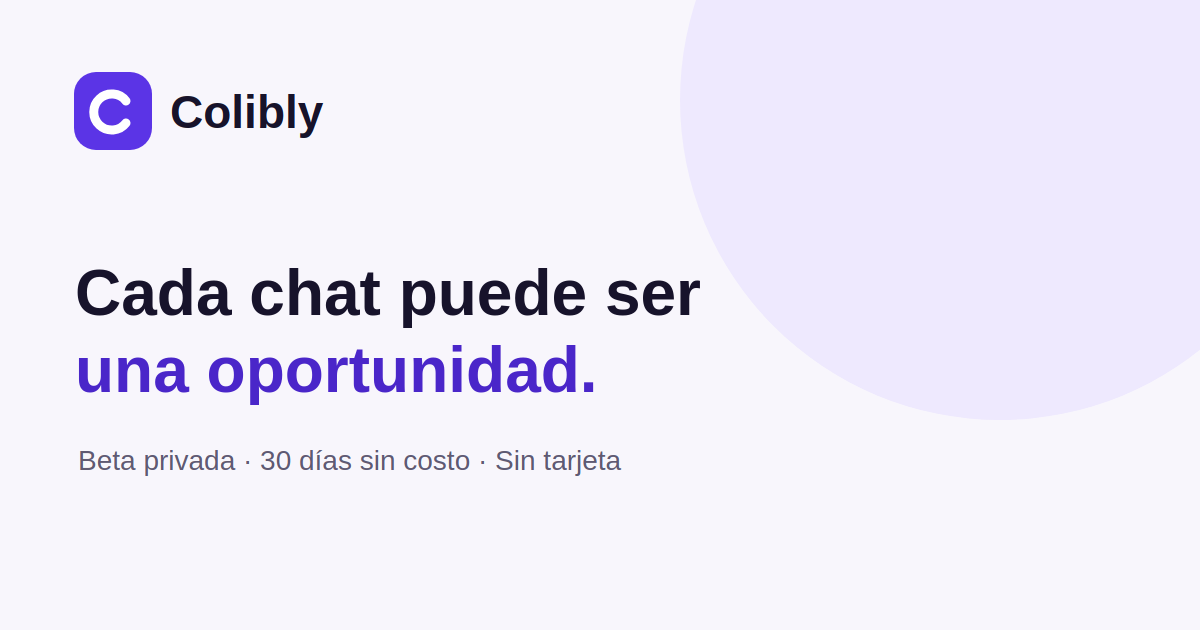
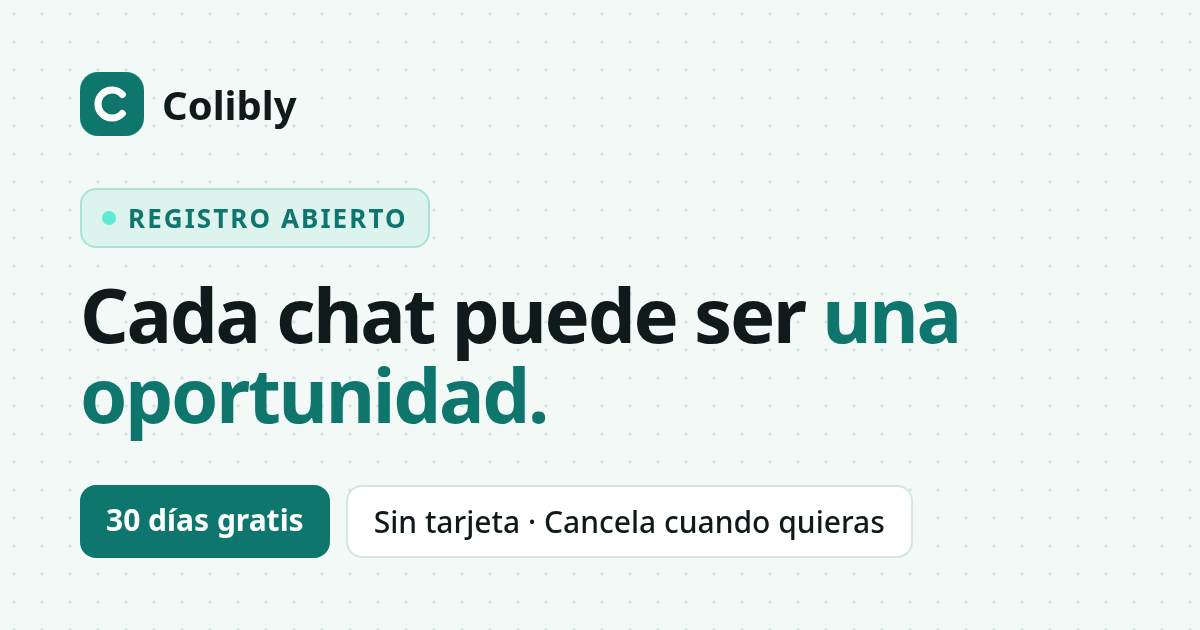
feat(cpanel): paleta Menta y grafito en site.css, iconos y share.png (registro abierto · 30 días gratis)

diff --git a/cpanel-site/assets/site.css b/cpanel-site/assets/site.css
@@ -1,14 +1,14 @@
 @import url('https://fonts.googleapis.com/css2?family=Bricolage+Grotesque:wght@400;500;600;700&family=Hanken+Grotesk:wght@400;500;600;700&display=swap');
-:root{--background:#f8f6fc;--surface:#fff;--surface-light:#f1eef8;--foreground:#17132b;--muted:#5f5a73;--muted-strong:#4a455e;--border:#e7e2f3;--accent:#5b34e6;--accent-hover:#4a26c9;--accent-ink:#4a26c9;--accent-subtle:#eee9fe;--accent-muted:#d9cffc;--success:#17663f;--success-bg:#e3f4ea;--shadow:0 20px 48px rgba(23,19,43,.12),0 4px 10px rgba(23,19,43,.06)}
+:root{--background:#f2f9f7;--surface:#fff;--surface-light:#e4f1ee;--foreground:#0f1a1a;--muted:#465757;--muted-strong:#2f3f3f;--border:#d3e6e2;--accent:#0f766e;--accent-hover:#0b5f58;--accent-ink:#0b5f58;--accent-subtle:#ddf3ee;--accent-muted:#a9e3d6;--success:#17663f;--success-bg:#e3f4ea;--shadow:0 20px 48px rgba(15,26,26,.12),0 4px 10px rgba(15,26,26,.06)}
 *,*::before,*::after{box-sizing:border-box}html{scroll-behavior:smooth}body{margin:0;background:var(--background);color:var(--foreground);font:16px/1.5 'Hanken Grotesk',system-ui,sans-serif}h1,h2,h3,p{margin-top:0}h1,h2,h3,.brand,.price,.step-number{font-family:'Bricolage Grotesque',system-ui,sans-serif}a{color:inherit;text-decoration:none}button,input,textarea{font:inherit}button{cursor:pointer}:focus-visible{outline:2px solid var(--accent);outline-offset:3px}section[id]{scroll-margin-top:90px}.container{width:min(100% - 32px,1152px);margin-inline:auto}.skip{position:absolute;left:-9999px}.skip:focus{left:12px;top:12px;z-index:99;padding:12px;background:#fff;border-radius:12px}
-.site-header{position:sticky;top:0;z-index:40;background:rgba(248,246,252,.92);border-bottom:1px solid var(--border);backdrop-filter:blur(14px)}.header-inner{display:flex;align-items:center;gap:18px;min-height:70px}.brand{display:inline-flex;align-items:center;gap:9px;font-weight:700;font-size:18px;letter-spacing:-.03em;white-space:nowrap}.brand img{border-radius:9px}.header-nav{display:flex;gap:27px;margin-left:auto;color:var(--muted);font-size:14px}.header-nav a:hover,.login:hover,.footer a:hover{color:var(--accent-ink)}.login{font-size:14px;font-weight:600;color:var(--muted)}.button{display:inline-flex;align-items:center;justify-content:center;gap:10px;min-height:48px;padding:11px 22px;border-radius:12px;font-size:14px;font-weight:700;border:1px solid transparent;transition:background .2s,transform .2s,box-shadow .2s}.button:hover{transform:translateY(-2px)}.button-primary{background:var(--accent);color:#fff;box-shadow:0 8px 20px rgba(91,52,230,.18)}.button-primary:hover{background:var(--accent-hover)}.button-outline{border-color:var(--border);background:var(--surface)}.button-outline:hover{background:var(--surface-light)}.header-cta{min-height:44px;padding-inline:17px}
-.hero{overflow:hidden;border-bottom:1px solid var(--border);background:radial-gradient(circle at 80% 15%,var(--accent-muted),transparent 38%),linear-gradient(180deg,var(--background),var(--surface))}.hero-grid{display:grid;grid-template-columns:1.05fr .95fr;gap:48px;align-items:center;padding-block:94px}.hero-copy{max-width:560px}.eyebrow{font-size:12px;line-height:1.4;font-weight:700;letter-spacing:.15em;text-transform:uppercase;color:var(--accent-ink);margin-bottom:14px}.pill{display:inline-flex;align-items:center;gap:8px;padding:8px 12px;background:var(--accent-subtle);border:1px solid var(--accent-muted);border-radius:12px}.dot{width:8px;height:8px;border-radius:50%;background:var(--accent)}h1{font-size:clamp(43px,6vw,82px);line-height:1.03;letter-spacing:-.055em;margin:22px 0}h1 em{font-style:normal;color:var(--accent-ink)}.lead{font-size:18px;line-height:1.75;color:var(--muted);max-width:540px}.actions{display:flex;flex-wrap:wrap;gap:12px;margin-top:30px}.fine{font-size:14px;color:var(--muted-strong);margin:14px 0 0}
-.hero-demo{position:relative;max-width:512px;width:100%;margin:auto}.hero-demo::before{content:"";position:absolute;inset:-14px;background:var(--accent-muted);opacity:.45;filter:blur(28px);border-radius:28px}.demo-window{position:relative;background:#fff;border:1px solid var(--border);border-radius:22px;box-shadow:var(--shadow);overflow:hidden}.demo-head{display:flex;align-items:center;gap:12px;padding:15px 20px;border-bottom:1px solid var(--border);background:var(--background)}.demo-head strong,.demo-head small{display:block}.demo-head strong{font-size:14px}.demo-head small,.demo-body small{font-size:12px;color:var(--muted-strong)}.demo-icon{width:36px;height:36px;display:grid;place-items:center;border-radius:12px;background:var(--accent-subtle);color:var(--accent-ink);font-size:20px}.online{margin-left:auto;background:var(--success-bg);color:var(--success);font-size:12px;font-weight:700;padding:5px 10px;border-radius:8px}.demo-body{display:grid;grid-template-columns:32% 68%;min-height:290px}.demo-list{border-right:1px solid var(--border);background:rgba(248,246,252,.7);padding:14px 10px}.demo-list>small{font-weight:700;letter-spacing:.08em;padding-left:8px}.demo-contact{padding:11px 9px;margin-top:5px;border-radius:12px}.demo-contact strong,.demo-contact span{display:block;overflow:hidden;text-overflow:ellipsis;white-space:nowrap;font-size:12px}.demo-contact span{font-size:12px;color:var(--muted-strong);margin-top:2px}.demo-contact.selected{background:var(--accent-subtle);border:1px solid var(--accent-muted)}.demo-thread{display:flex;flex-direction:column;gap:13px;padding:16px 18px}.demo-thread>small{font-weight:700}.bubble{font-size:12px;line-height:1.6;padding:9px 12px;border-radius:12px;max-width:90%;margin:0}.incoming{background:var(--surface-light);align-self:flex-start;border-top-left-radius:3px}.outgoing{background:var(--accent-subtle);align-self:flex-end;border-top-right-radius:3px}.demo-tags{display:flex;flex-wrap:wrap;gap:5px;margin-top:auto}.demo-tags span{font-size:12px;color:#1d5fbf;background:#e6eefa;padding:5px 8px;border-radius:8px}.demo-tags span+span{color:var(--success);background:var(--success-bg)}.ai-note{position:relative;display:table;margin:-18px 12px 0 auto;background:#fff;border:1px solid var(--border);box-shadow:var(--shadow);border-radius:12px;padding:10px 13px;font-size:12px;font-weight:600}.ai-note span{color:var(--accent-ink)}.demo-caption{text-align:center;font-size:14px;color:var(--muted-strong);margin-top:11px}
-.section{padding-block:94px}.section h2{font-size:clamp(30px,3.3vw,39px);line-height:1.25;letter-spacing:-.035em;max-width:760px;margin-bottom:15px}.section-intro{color:var(--muted);line-height:1.75;max-width:640px}.section-tint{background:rgba(255,255,255,.65);border-block:1px solid var(--border)}.cards{display:grid;gap:16px;margin-top:36px}.three{grid-template-columns:repeat(3,1fr)}.card{list-style:none;background:#fff;border:1px solid var(--border);border-radius:18px;padding:24px;box-shadow:0 1px 2px rgba(23,19,43,.05)}.card-icon{display:grid;place-items:center;width:44px;height:44px;border-radius:12px;background:var(--accent-subtle);color:var(--accent-ink);font-size:24px}.card h3{font-size:19px;line-height:1.3;margin:20px 0 10px}.card p{font-size:14px;line-height:1.7;color:var(--muted);margin:0}.steps{padding:0}.step-number{font-size:24px;font-weight:700;color:var(--accent-ink)}.split{display:grid;grid-template-columns:.9fr 1.1fr;gap:46px;align-items:center}.text-link{color:var(--accent-ink);font-weight:700;text-decoration:underline;text-underline-offset:4px}.offer-card{padding:32px;background:linear-gradient(145deg,var(--accent-subtle),#fff 65%);border:1px solid var(--accent-muted);border-radius:22px;box-shadow:var(--shadow)}.offer-top{display:flex;justify-content:space-between;align-items:center;gap:10px;flex-wrap:wrap;color:var(--accent-ink);font-size:14px}.offer-badge{font-size:12px;background:var(--accent);color:#fff;border-radius:8px;padding:5px 11px;font-weight:700}.price{font-size:46px;font-weight:700;letter-spacing:-.05em;margin:25px 0 0}.price span{font-size:23px;color:var(--muted)}.offer-card>p:not(.price){font-size:14px;color:var(--muted)}.checks{list-style:none;padding:0;margin:25px 0}.checks li{position:relative;padding-left:29px;margin:12px 0;font-size:14px;line-height:1.6}.checks li::before{content:"✓";position:absolute;left:0;color:var(--success);font-weight:700}.offer-foot{border-top:1px solid var(--border);padding-top:19px;line-height:1.65;font-size:14px;color:var(--muted-strong)!important}.faq-grid{align-items:start;grid-template-columns:.8fr 1.2fr}.faqs{display:grid;gap:12px}.faqs details{border:1px solid var(--border);background:var(--background);border-radius:12px;padding:18px 20px}.faqs summary{cursor:pointer;font-weight:700;padding-right:20px}.faqs details p{font-size:14px;line-height:1.7;color:var(--muted);margin:10px 0 0}.reassurance{color:var(--muted-strong);font-size:14px;margin-top:25px}.application-card{background:#fff;border:1px solid var(--border);border-radius:20px;box-shadow:var(--shadow);padding:30px;position:relative}.application-card h3{font-size:24px;margin:0 0 8px}.form-intro{font-size:14px;color:var(--muted);margin-bottom:25px}.form-grid{display:grid;grid-template-columns:1fr 1fr;gap:16px}.application-card label{display:block;font-size:14px;font-weight:600}.application-card label span:not(.privacy-check span){color:var(--accent-ink)}.application-card input:not([type=checkbox]),.application-card textarea{display:block;width:100%;min-height:44px;border:1px solid #cfc9df;border-radius:12px;padding:10px 12px;margin-top:7px;background:#fff;color:var(--foreground)}.application-card input:focus,.application-card textarea:focus{border-color:var(--accent)}.wide-label{margin-top:16px}.wide-label small{display:block;font-weight:400;color:var(--muted-strong)}.application-card textarea{resize:vertical}.privacy-check{display:flex!important;align-items:flex-start;gap:10px;margin-top:20px;color:var(--muted-strong);line-height:1.6}.privacy-check input{flex:none;width:18px;height:18px;margin-top:2px;accent-color:var(--accent)}.privacy-check a{color:var(--accent-ink);text-decoration:underline}.submit{width:100%;margin-top:23px}.form-fine{text-align:center;font-size:14px;color:var(--muted-strong);margin:12px 0 0}.form-error{background:#fbe6e3;color:#b42318;border:1px solid #f1b9b3;padding:12px;border-radius:12px;margin-bottom:18px;font-size:14px}.honeypot{position:absolute;left:-10000px}.footer{border-top:1px solid var(--border);background:#fff}.footer-main{display:flex;align-items:center;justify-content:space-between;gap:25px;padding-block:35px}.footer-main p{color:var(--muted-strong);font-size:14px;margin:8px 0 0}.footer nav{display:flex;flex-wrap:wrap;gap:20px;font-size:14px;color:var(--muted-strong)}.copyright{border-top:1px solid var(--border);padding-block:15px;color:var(--muted-strong);font-size:14px}.legal{max-width:800px;padding-block:48px}.legal h1{font-size:42px}.legal h2{font-size:23px;margin-top:35px}.legal p,.legal li{line-height:1.8}.legal-note{background:#fdefe3;color:#9a4307;padding:16px;border:1px solid #f6cba8;border-radius:12px}.legal mark{background:#fdefe3;color:#9a4307;border-radius:4px;padding:2px 4px}
+.site-header{position:sticky;top:0;z-index:40;background:rgba(242,249,247,.92);border-bottom:1px solid var(--border);backdrop-filter:blur(14px)}.header-inner{display:flex;align-items:center;gap:18px;min-height:70px}.brand{display:inline-flex;align-items:center;gap:9px;font-weight:700;font-size:18px;letter-spacing:-.03em;white-space:nowrap}.brand img{border-radius:9px}.header-nav{display:flex;gap:27px;margin-left:auto;color:var(--muted);font-size:14px}.header-nav a:hover,.login:hover,.footer a:hover{color:var(--accent-ink)}.login{font-size:14px;font-weight:600;color:var(--muted)}.button{display:inline-flex;align-items:center;justify-content:center;gap:10px;min-height:48px;padding:11px 22px;border-radius:12px;font-size:14px;font-weight:700;border:1px solid transparent;transition:background .2s,transform .2s,box-shadow .2s}.button:hover{transform:translateY(-2px)}.button-primary{background:var(--accent);color:#fff;box-shadow:0 8px 20px rgba(15,118,110,.25)}.button-primary:hover{background:var(--accent-hover)}.button-outline{border-color:var(--border);background:var(--surface)}.button-outline:hover{background:var(--surface-light)}.header-cta{min-height:44px;padding-inline:17px}
+.hero{overflow:hidden;border-bottom:1px solid var(--border);background:var(--background) radial-gradient(var(--accent-muted) 1px,transparent 1.2px) 0 0/22px 22px}.hero-grid{display:grid;grid-template-columns:1.05fr .95fr;gap:48px;align-items:center;padding-block:94px}.hero-copy{max-width:560px}.eyebrow{font-size:12px;line-height:1.4;font-weight:700;letter-spacing:.15em;text-transform:uppercase;color:var(--accent-ink);margin-bottom:14px}.pill{display:inline-flex;align-items:center;gap:8px;padding:8px 12px;background:var(--accent-subtle);border:1px solid var(--accent-muted);border-radius:12px}.dot{width:8px;height:8px;border-radius:50%;background:#5eead4}h1{font-size:clamp(43px,6vw,82px);line-height:1.03;letter-spacing:-.055em;margin:22px 0}h1 em{font-style:normal;color:var(--accent-ink)}.lead{font-size:18px;line-height:1.75;color:var(--muted);max-width:540px}.actions{display:flex;flex-wrap:wrap;gap:12px;margin-top:30px}.fine{font-size:14px;color:var(--muted-strong);margin:14px 0 0}
+.hero-demo{position:relative;max-width:512px;width:100%;margin:auto}.demo-window{position:relative;background:#fff;border:1px solid var(--border);border-radius:22px;box-shadow:var(--shadow);overflow:hidden}.demo-head{display:flex;align-items:center;gap:12px;padding:15px 20px;border-bottom:1px solid var(--border);background:var(--background)}.demo-head strong,.demo-head small{display:block}.demo-head strong{font-size:14px}.demo-head small,.demo-body small{font-size:12px;color:var(--muted-strong)}.demo-icon{width:36px;height:36px;display:grid;place-items:center;border-radius:12px;background:var(--accent-subtle);color:var(--accent-ink);font-size:20px}.online{margin-left:auto;background:var(--success-bg);color:var(--success);font-size:12px;font-weight:700;padding:5px 10px;border-radius:8px}.demo-body{display:grid;grid-template-columns:32% 68%;min-height:290px}.demo-list{border-right:1px solid var(--border);background:rgba(242,249,247,.7);padding:14px 10px}.demo-list>small{font-weight:700;letter-spacing:.08em;padding-left:8px}.demo-contact{padding:11px 9px;margin-top:5px;border-radius:12px}.demo-contact strong,.demo-contact span{display:block;overflow:hidden;text-overflow:ellipsis;white-space:nowrap;font-size:12px}.demo-contact span{font-size:12px;color:var(--muted-strong);margin-top:2px}.demo-contact.selected{background:var(--accent-subtle);border:1px solid var(--accent-muted)}.demo-thread{display:flex;flex-direction:column;gap:13px;padding:16px 18px}.demo-thread>small{font-weight:700}.bubble{font-size:12px;line-height:1.6;padding:9px 12px;border-radius:12px;max-width:90%;margin:0}.incoming{background:var(--surface-light);align-self:flex-start;border-top-left-radius:3px}.outgoing{background:var(--accent-subtle);align-self:flex-end;border-top-right-radius:3px}.demo-tags{display:flex;flex-wrap:wrap;gap:5px;margin-top:auto}.demo-tags span{font-size:12px;color:var(--accent-ink);background:var(--accent-subtle);padding:5px 8px;border-radius:8px}.demo-tags span+span{color:var(--success);background:var(--success-bg)}.ai-note{position:relative;display:table;margin:-18px 12px 0 auto;background:#fff;border:1px solid var(--border);box-shadow:var(--shadow);border-radius:12px;padding:10px 13px;font-size:12px;font-weight:600}.ai-note span{color:var(--accent-ink)}.demo-caption{text-align:center;font-size:14px;color:var(--muted-strong);margin-top:11px}
+.section{padding-block:94px}.section h2{font-size:clamp(30px,3.3vw,39px);line-height:1.25;letter-spacing:-.035em;max-width:760px;margin-bottom:15px}.section-intro{color:var(--muted);line-height:1.75;max-width:640px}.section-tint{background:rgba(255,255,255,.65);border-block:1px solid var(--border)}.cards{display:grid;gap:16px;margin-top:36px}.three{grid-template-columns:repeat(3,1fr)}.card{list-style:none;background:#fff;border:1px solid var(--border);border-radius:18px;padding:24px;box-shadow:0 1px 2px rgba(15,26,26,.05)}.card-icon{display:grid;place-items:center;width:44px;height:44px;border-radius:12px;background:var(--accent-subtle);color:var(--accent-ink);font-size:24px}.card h3{font-size:19px;line-height:1.3;margin:20px 0 10px}.card p{font-size:14px;line-height:1.7;color:var(--muted);margin:0}.steps{padding:0}.step-number{font-size:24px;font-weight:700;color:var(--accent-ink)}.split{display:grid;grid-template-columns:.9fr 1.1fr;gap:46px;align-items:center}.text-link{color:var(--accent-ink);font-weight:700;text-decoration:underline;text-underline-offset:4px}.offer-card{padding:32px;background:var(--accent-subtle);border:1px solid var(--accent-muted);border-radius:22px;box-shadow:var(--shadow)}.offer-top{display:flex;justify-content:space-between;align-items:center;gap:10px;flex-wrap:wrap;color:var(--accent-ink);font-size:14px}.offer-badge{font-size:12px;background:var(--accent);color:#fff;border-radius:8px;padding:5px 11px;font-weight:700}.price{font-size:46px;font-weight:700;letter-spacing:-.05em;margin:25px 0 0}.price span{font-size:23px;color:var(--muted)}.offer-card>p:not(.price){font-size:14px;color:var(--muted)}.checks{list-style:none;padding:0;margin:25px 0}.checks li{position:relative;padding-left:29px;margin:12px 0;font-size:14px;line-height:1.6}.checks li::before{content:"✓";position:absolute;left:0;color:var(--success);font-weight:700}.offer-foot{border-top:1px solid var(--border);padding-top:19px;line-height:1.65;font-size:14px;color:var(--muted-strong)!important}.faq-grid{align-items:start;grid-template-columns:.8fr 1.2fr}.faqs{display:grid;gap:12px}.faqs details{border:1px solid var(--border);background:var(--background);border-radius:12px;padding:18px 20px}.faqs summary{cursor:pointer;font-weight:700;padding-right:20px}.faqs details p{font-size:14px;line-height:1.7;color:var(--muted);margin:10px 0 0}.reassurance{color:var(--muted-strong);font-size:14px;margin-top:25px}.application-card{background:#fff;border:1px solid var(--border);border-radius:20px;box-shadow:var(--shadow);padding:30px;position:relative}.application-card h3{font-size:24px;margin:0 0 8px}.form-intro{font-size:14px;color:var(--muted);margin-bottom:25px}.form-grid{display:grid;grid-template-columns:1fr 1fr;gap:16px}.application-card label{display:block;font-size:14px;font-weight:600}.application-card label span:not(.privacy-check span){color:var(--accent-ink)}.application-card input:not([type=checkbox]),.application-card textarea{display:block;width:100%;min-height:44px;border:1px solid #a9bfba;border-radius:12px;padding:10px 12px;margin-top:7px;background:#fff;color:var(--foreground)}.application-card input:focus,.application-card textarea:focus{border-color:var(--accent)}.wide-label{margin-top:16px}.wide-label small{display:block;font-weight:400;color:var(--muted-strong)}.application-card textarea{resize:vertical}.privacy-check{display:flex!important;align-items:flex-start;gap:10px;margin-top:20px;color:var(--muted-strong);line-height:1.6}.privacy-check input{flex:none;width:18px;height:18px;margin-top:2px;accent-color:var(--accent)}.privacy-check a{color:var(--accent-ink);text-decoration:underline}.submit{width:100%;margin-top:23px}.form-fine{text-align:center;font-size:14px;color:var(--muted-strong);margin:12px 0 0}.form-error{background:#fbe6e3;color:#b42318;border:1px solid #f1b9b3;padding:12px;border-radius:12px;margin-bottom:18px;font-size:14px}.honeypot{position:absolute;left:-10000px}.footer{border-top:1px solid var(--border);background:#fff}.footer-main{display:flex;align-items:center;justify-content:space-between;gap:25px;padding-block:35px}.footer-main p{color:var(--muted-strong);font-size:14px;margin:8px 0 0}.footer nav{display:flex;flex-wrap:wrap;gap:20px;font-size:14px;color:var(--muted-strong)}.copyright{border-top:1px solid var(--border);padding-block:15px;color:var(--muted-strong);font-size:14px}.legal{max-width:800px;padding-block:48px}.legal h1{font-size:42px}.legal h2{font-size:23px;margin-top:35px}.legal p,.legal li{line-height:1.8}.legal-note{background:#fdefe3;color:#9a4307;padding:16px;border:1px solid #f6cba8;border-radius:12px}.legal mark{background:#fdefe3;color:#9a4307;border-radius:4px;padding:2px 4px}
 
 .section-head{display:grid;grid-template-columns:1.15fr .85fr;gap:24px 64px;align-items:end}.section-head h2{max-width:none}.section-head .section-intro{max-width:none;font-size:18px;margin-bottom:15px}.split-steps{display:grid;grid-template-columns:.85fr 1.15fr;gap:64px;align-items:start}.split-steps>div:first-child{position:sticky;top:110px}.split-steps .steps{margin:0;grid-template-columns:1fr}.split-steps .steps .card{display:flex;gap:20px;align-items:flex-start}.split-steps .steps .card h3{margin-top:0}.coexist-grid{align-items:center;grid-template-columns:.9fr 1.1fr;gap:64px}.coexist-list{list-style:none;padding:0;margin:0;display:grid;gap:16px}.coexist-list .card{display:flex;gap:16px;align-items:flex-start;padding:22px}.coexist-list .card-icon{flex:none}.coexist-list h3{margin:0 0 6px}.coexist-note{background:var(--background);border:1px solid var(--border);border-radius:12px;padding:16px;font-size:14px;line-height:1.7;color:var(--muted-strong);margin-top:20px}.coexist-note a{color:var(--accent-ink);font-weight:700;text-decoration:underline}
 .legal.legal-wide{max-width:1152px;display:grid;grid-template-columns:.8fr 1.2fr;gap:0 64px;align-content:start}.legal-wide>h1{grid-column:1;grid-row:1/span 99;position:sticky;top:100px;align-self:start;margin-top:0}.legal-wide>:not(h1){grid-column:2}.legal-wide>:nth-child(2){margin-top:0}
 .menu-toggle{display:none;margin-left:auto;width:44px;height:44px;align-items:center;justify-content:center;border:0;border-radius:10px;background:transparent;color:var(--foreground);cursor:pointer}.menu-toggle:hover{background:var(--surface-light)}.menu-toggle svg{display:block}.menu-toggle .icon-close{display:none}.menu-toggle[aria-expanded=true] .icon-open{display:none}.menu-toggle[aria-expanded=true] .icon-close{display:block}
-.mobile-menu{display:none;position:absolute;left:0;right:0;top:100%;background:var(--background);border-bottom:1px solid var(--border);box-shadow:0 10px 28px rgba(23,19,43,.08);padding:0 16px 20px;max-height:calc(100dvh - 70px);overflow-y:auto}.mobile-menu[data-open=true]{display:block}.mobile-menu a:not(.button){display:flex;align-items:center;min-height:48px;font-size:16px;font-weight:600;border-bottom:1px solid var(--border)}.mobile-menu a.mobile-login{border-bottom:0}.mobile-menu .button{width:100%;margin-top:8px}
+.mobile-menu{display:none;position:absolute;left:0;right:0;top:100%;background:var(--background);border-bottom:1px solid var(--border);box-shadow:0 10px 28px rgba(15,26,26,.08);padding:0 16px 20px;max-height:calc(100dvh - 70px);overflow-y:auto}.mobile-menu[data-open=true]{display:block}.mobile-menu a:not(.button){display:flex;align-items:center;min-height:48px;font-size:16px;font-weight:600;border-bottom:1px solid var(--border)}.mobile-menu a.mobile-login{border-bottom:0}.mobile-menu .button{width:100%;margin-top:8px}
 .site-header{position:sticky}.header-inner{position:relative}
 @media(max-width:900px){.section-head,.split-steps,.coexist-grid,.legal.legal-wide{display:block}.split-steps>div:first-child,.legal-wide>h1{position:static}.split-steps .steps{margin-top:28px}.coexist-list{margin-top:28px}.legal-wide>:not(h1){grid-column:auto}.header-nav,.header-inner>.login,.header-inner>.header-cta{display:none}.menu-toggle{display:flex}.header-nav{display:none}.login{margin-left:auto}.hero-grid,.split{gap:32px}.hero-grid{padding-block:70px}.section{padding-block:70px}.three{grid-template-columns:1fr}.cards{margin-top:28px}}@media(max-width:700px){.container{width:min(100% - 32px,540px)}.hero-grid,.split{grid-template-columns:1fr}.hero-grid{padding-block:56px}.hero-demo{margin-top:15px}.header-inner{gap:10px}.header-cta{padding:10px 12px}.login{font-size:13px}.section{padding-block:60px}.form-grid{grid-template-columns:1fr}.footer-main{display:block}.footer nav{margin-top:24px;gap:15px}.application-card{padding:22px}.price{font-size:42px}}@media(max-width:390px){.brand span{font-size:16px}.brand img{width:32px;height:32px}}@media(prefers-reduced-motion:reduce){html{scroll-behavior:auto}.button{transition:none}}

diff --git a/cpanel-site/precios.php b/cpanel-site/precios.php
@@ -10,7 +10,7 @@ legal_header('Planes y precios', ['wide' => true, 'path' => '/precios', 'descrip
 <p>El registro es abierto: crea tu cuenta y prueba Colibly 30 días gratis con el plan Pro completo, sin tarjeta y sin cobros automáticos. Al terminar, tú eliges el plan.</p>
 <div class="cards" style="display:grid;gap:20px;grid-template-columns:repeat(auto-fit,minmax(260px,1fr));margin:24px 0">
 <?php foreach ($plans as [$name, $price, $tagline, $features, $missing, $featured]): ?>
-<div class="card"<?= $featured ? ' style="border-color:#5B34E6"' : '' ?>><h2 style="margin-top:0"><?= html($name) ?><?= $featured ? ' <small>· Recomendado</small>' : '' ?></h2><p><?= html($tagline) ?></p><p><strong style="font-size:2rem">$<?= $price ?></strong> USD / mes</p><ul><?php foreach ($features as $f): ?><li><?= html($f) ?></li><?php endforeach; ?><?php foreach ($missing as $f): ?><li><span class="sr-only">No incluye: </span><?= html($f) ?> (no incluido)</li><?php endforeach; ?></ul><p><a class="button <?= $featured ? 'button-primary' : 'button-outline' ?>" href="<?= html(APP_URL) ?>/register">Prueba 30 días gratis</a></p></div>
+<div class="card"<?= $featured ? ' style="border-color:#0F766E"' : '' ?>><h2 style="margin-top:0"><?= html($name) ?><?= $featured ? ' <small>· Recomendado</small>' : '' ?></h2><p><?= html($tagline) ?></p><p><strong style="font-size:2rem">$<?= $price ?></strong> USD / mes</p><ul><?php foreach ($features as $f): ?><li><?= html($f) ?></li><?php endforeach; ?><?php foreach ($missing as $f): ?><li><span class="sr-only">No incluye: </span><?= html($f) ?> (no incluido)</li><?php endforeach; ?></ul><p><a class="button <?= $featured ? 'button-primary' : 'button-outline' ?>" href="<?= html(APP_URL) ?>/register">Prueba 30 días gratis</a></p></div>
 <?php endforeach; ?>
 </div>
 <h2>Lo que conviene saber</h2><ul><li>La prueba de 30 días incluye el plan Pro completo y no pide tarjeta. Al terminar, si no eliges un plan, tu cuenta pasa a solo lectura y tus datos se conservan.</li><li>Los precios están en dólares estadounidenses (USD), se cobran por mes con tarjeta a través de Stripe y la suscripción se renueva hasta que la cancelas. Antes de contratar verás el precio final y si incluye impuestos.</li><li>La IA ya viene incluida: cada plan trae créditos mensuales, sin que necesites contratar ni configurar una IA por tu cuenta.</li><li>Si un cobro falla tienes 7 días de gracia con todo funcionando antes de pasar a solo lectura.</li><li>Meta puede cobrar algunos mensajes de WhatsApp según su categoría y destino. Esos cargos son independientes de tu suscripción a Colibly.</li></ul>

diff --git a/cpanel-site/index.php b/cpanel-site/index.php
@@ -37,7 +37,7 @@ $ld = [
   <link rel="canonical" href="https://colibly.com/"><link rel="icon" href="/assets/icon.svg" type="image/svg+xml">
   <meta property="og:type" content="website"><meta property="og:locale" content="es_MX"><meta property="og:site_name" content="Colibly"><meta property="og:title" content="Colibly — Vende por WhatsApp sin perder conversaciones"><meta property="og:description" content="Registro abierto: 30 días sin costo y sin tarjeta."><meta property="og:url" content="https://colibly.com/"><meta property="og:image" content="https://colibly.com/assets/share.png"><meta property="og:image:width" content="1200"><meta property="og:image:height" content="630"><meta property="og:image:alt" content="Colibly: cada chat puede ser una oportunidad">
   <meta name="twitter:card" content="summary_large_image"><meta name="twitter:title" content="Colibly — Vende por WhatsApp sin perder conversaciones"><meta name="twitter:description" content="Registro abierto: 30 días sin costo y sin tarjeta."><meta name="twitter:image" content="https://colibly.com/assets/share.png">
-  <meta name="robots" content="index,follow,max-snippet:-1,max-image-preview:large,max-video-preview:-1"><meta name="theme-color" content="#5B34E6"><link rel="apple-touch-icon" href="/assets/apple-touch-icon.png"><link rel="alternate" type="text/markdown" href="/llms.txt" title="Resumen para asistentes de IA">
+  <meta name="robots" content="index,follow,max-snippet:-1,max-image-preview:large,max-video-preview:-1"><meta name="theme-color" content="#0F766E"><link rel="apple-touch-icon" href="/assets/apple-touch-icon.png"><link rel="alternate" type="text/markdown" href="/llms.txt" title="Resumen para asistentes de IA">
   <script type="application/ld+json"><?= json_encode($ld, JSON_UNESCAPED_UNICODE | JSON_UNESCAPED_SLASHES | JSON_HEX_TAG) ?></script>
   <link rel="stylesheet" href="/assets/site.css"><script src="/assets/site.js" defer></script>
 </head>
